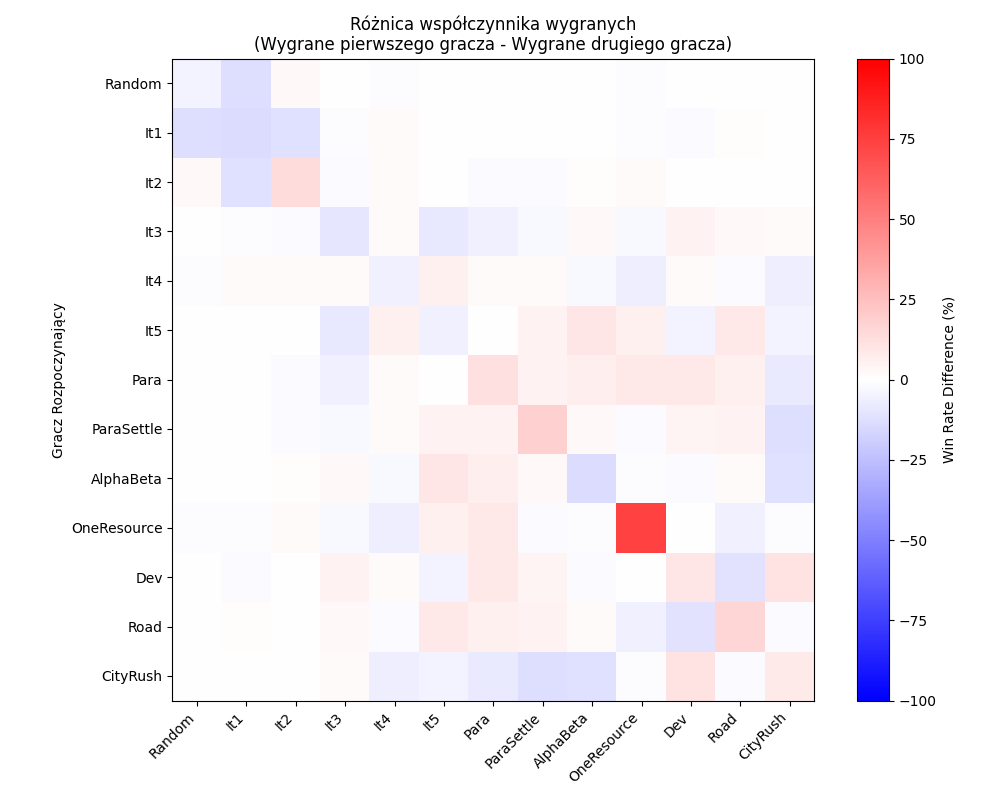
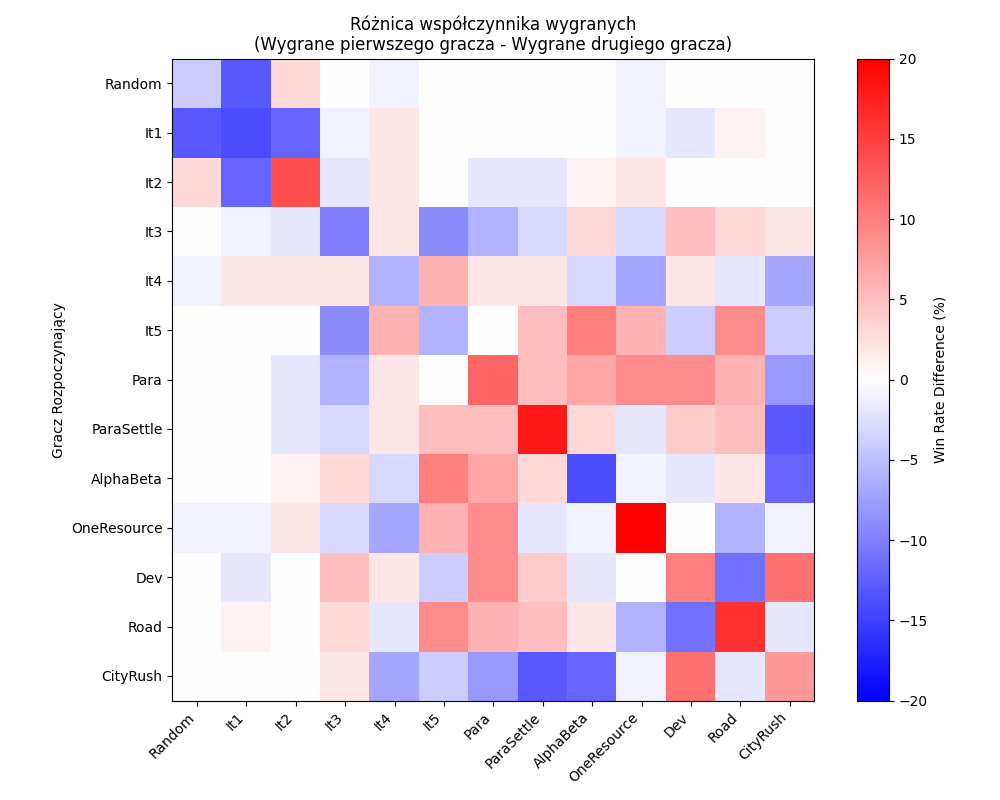
edited for better heatrmap

Changed region(s): [[0.155, 0.0625, 0.837, 0.875], [0.899, 0.375, 0.961, 0.5938], [0.899, 0.0625, 0.93, 0.0938]]

diff --git a/data/test2.py b/data/test2.py
@@ -217,7 +217,7 @@ for i, player_a in enumerate(players):
         matrix[i, j] = diff[(player_a, player_b)]
 # Plot heatmap
 plt.figure(figsize=(10, 8))
-plt.imshow(matrix, cmap='bwr', vmin=-100, vmax=100)
+plt.imshow(matrix, cmap='bwr', vmin=-20, vmax=20)
 plt.colorbar(label='Win Rate Difference (%)')
 plt.xticks(ticks=np.arange(len(players)), labels=players, rotation=45, ha='right')
 plt.yticks(ticks=np.arange(len(players)), labels=players)
